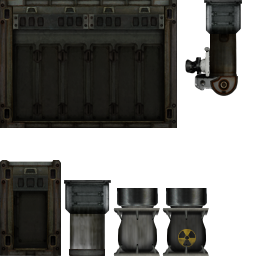
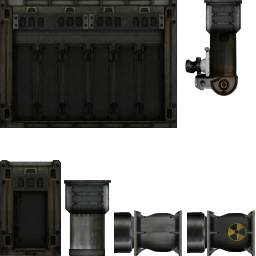
- item sprites visible in fabricator menu - deth charge rotation fix - sonar tweaking (ruin walls look slightly different from cave walls) - connector sprite positioning fix - repairtool is active when in use

Changed region(s): [[0.4375, 0.7188, 1.0, 1.0]]

diff --git a/Subsurface/Source/Items/Components/Machines/Radar.cs b/Subsurface/Source/Items/Components/Machines/Radar.cs
@@ -141,7 +141,7 @@ namespace Barotrauma.Items.Components
                     CreateBlipsForLine(
                         start + Submarine.Loaded.WorldPosition, 
                         end + Submarine.Loaded.WorldPosition, 
-                        radius, displayScale, 2.0f);
+                        radius, displayScale, 200.0f, 2.0f);
                 }
 
             }
@@ -170,7 +170,7 @@ namespace Barotrauma.Items.Components
                     CreateBlipsForLine(
                         new Vector2(item.WorldPosition.X - range, Level.Loaded.Size.Y),
                         new Vector2(item.WorldPosition.X + range, Level.Loaded.Size.Y),
-                        radius, displayScale, 1.0f);
+                        radius, displayScale, 300.0f, 1.0f);
                 }
 
                 List<VoronoiCell> cells = Level.Loaded.GetCells(item.WorldPosition, 7);
@@ -179,14 +179,14 @@ namespace Barotrauma.Items.Components
                     foreach (GraphEdge edge in cell.edges)
                     {
                         if (!edge.isSolid) continue;
-                        float cellDot = Vector2.Dot(cell.Center - item.WorldPosition, (edge.Center+cell.Translation) - cell.Center);
+                        float cellDot = Vector2.Dot(cell.Center - item.WorldPosition, (edge.Center + cell.Translation) - cell.Center);
                         if (cellDot > 0) continue;
 
                         float facingDot = Vector2.Dot(
-                            Vector2.Normalize(edge.point1 - edge.point2), 
-                            Vector2.Normalize(cell.Center-item.WorldPosition));
+                            Vector2.Normalize(edge.point1 - edge.point2),
+                            Vector2.Normalize(cell.Center - item.WorldPosition));
 
-                        CreateBlipsForLine(edge.point1 + cell.Translation, edge.point2+cell.Translation, radius, displayScale, 3.0f * (Math.Abs(facingDot) + 1.0f));
+                        CreateBlipsForLine(edge.point1 + cell.Translation, edge.point2 + cell.Translation, radius, displayScale, 350.0f, 3.0f * (Math.Abs(facingDot) + 1.0f));
                     }
                 }    
 
@@ -204,7 +204,7 @@ namespace Barotrauma.Items.Components
                                 Vector2.Normalize((wall.A+wall.B)/2.0f - ruinShape.Center));
                             if (cellDot > 0) continue;
 
-                            CreateBlipsForLine(wall.A, wall.B, radius, displayScale, -cellDot*5.0f);
+                            CreateBlipsForLine(wall.A, wall.B, radius, displayScale, 100.0f, 1000.0f);
                         }                       
                     }
                 }
@@ -295,7 +295,7 @@ namespace Barotrauma.Items.Components
             }
         }
 
-        private void CreateBlipsForLine(Vector2 point1, Vector2 point2, float radius, float displayScale, float step)
+        private void CreateBlipsForLine(Vector2 point1, Vector2 point2, float radius, float displayScale, float lineStep, float zStep)
         {
             float pingRadius = radius * pingState;
 
@@ -303,7 +303,7 @@ namespace Barotrauma.Items.Components
 
             Vector2 lineDir = (point2 - point1) / length;
 
-            for (float x = 0; x < length; x += Rand.Range(300.0f, 400.0f))
+            for (float x = 0; x < length; x += lineStep*Rand.Range(0.8f,1.2f))
             {
                 Vector2 point = point1 + lineDir * x;
                 //point += cell.Translation;
@@ -316,7 +316,7 @@ namespace Barotrauma.Items.Components
 
                 //float step = 3.0f * (Math.Abs(facingDot) + 1.0f);
                 float alpha = Rand.Range(1.5f, 2.0f);
-                for (float z = 0; z < radius - pointDist; z += step)
+                for (float z = 0; z < radius - pointDist; z += zStep)
                 {
 
                     var blip = new RadarBlip(
@@ -324,7 +324,7 @@ namespace Barotrauma.Items.Components
                         alpha);
 
                     radarBlips.Add(blip);
-                    step += 0.5f;
+                    zStep += 0.5f;
                     alpha -= (z == 0) ? 0.5f : 0.1f;
                 }
 

diff --git a/Subsurface/Source/Items/Components/Machines/Fabricator.cs b/Subsurface/Source/Items/Components/Machines/Fabricator.cs
@@ -114,12 +114,9 @@ namespace Barotrauma.Items.Components
 
             foreach (FabricableItem fi in fabricableItems)
             {
-                Color color = ((itemList.CountChildren % 2) == 0) ? Color.Transparent : Color.Black*0.3f;
-
-                new GUITextBlock(
-                    new Rectangle(0, 0, 0, 25), fi.TargetItem.Name,
-                    color, Color.White,
-                    Alignment.Left, Alignment.Left, null, itemList)
+                Color color = ((itemList.CountChildren % 2) == 0) ? Color.Transparent : Color.Black * 0.3f;
+                
+                GUIFrame frame = new GUIFrame(new Rectangle(0, 0, 0, 50), Color.Transparent, null, itemList)
                 {
                     UserData = fi,
                     Padding = new Vector4(5.0f, 5.0f, 5.0f, 5.0f),
@@ -127,6 +124,21 @@ namespace Barotrauma.Items.Components
                     SelectedColor = Color.Gold * 0.5f,
                     ToolTip = fi.TargetItem.Description
                 };
+
+                GUITextBlock textBlock = new GUITextBlock(
+                    new Rectangle(40, 0, 0, 25),
+                    fi.TargetItem.Name,
+                    Color.Transparent, Color.White,
+                    Alignment.Left, Alignment.Left,
+                    null, frame);
+                textBlock.Padding = new Vector4(5.0f, 0.0f, 5.0f, 0.0f);
+
+                if (fi.TargetItem.sprite != null)
+                {
+                    GUIImage img = new GUIImage(new Rectangle(0, 0, 40, 40), fi.TargetItem.sprite, Alignment.Left, frame);
+                    img.Scale = Math.Min(Math.Min(40.0f / img.SourceRect.Width, 40.0f / img.SourceRect.Height), 1.0f);
+                    img.Color = fi.TargetItem.SpriteColor;
+                }
 
             }
         }

diff --git a/Subsurface/Source/Map/Submarine.cs b/Subsurface/Source/Map/Submarine.cs
@@ -224,7 +224,7 @@ namespace Barotrauma
 
         public static void Draw(SpriteBatch spriteBatch, bool editing = false)
         {
-            for (int i = 0; i < MapEntity.mapEntityList.Count(); i++ )
+            for (int i = 0; i < MapEntity.mapEntityList.Count; i++ )
             {
                 MapEntity.mapEntityList[i].Draw(spriteBatch, editing);
             }
@@ -232,7 +232,7 @@ namespace Barotrauma
 
         public static void DrawFront(SpriteBatch spriteBatch, bool editing = false)
         {
-            for (int i = 0; i < MapEntity.mapEntityList.Count(); i++)
+            for (int i = 0; i < MapEntity.mapEntityList.Count; i++)
             {
                 if (MapEntity.mapEntityList[i].Sprite == null || MapEntity.mapEntityList[i].Sprite.Depth < 0.5f)
                     MapEntity.mapEntityList[i].Draw(spriteBatch, editing, false);
@@ -241,7 +241,7 @@ namespace Barotrauma
 
         public static void DrawBack(SpriteBatch spriteBatch, bool editing = false)
         {
-            for (int i = 0; i < MapEntity.mapEntityList.Count(); i++)
+            for (int i = 0; i < MapEntity.mapEntityList.Count; i++)
             {
                 if (MapEntity.mapEntityList[i].Sprite == null || MapEntity.mapEntityList[i].Sprite.Depth >= 0.5f)
                     MapEntity.mapEntityList[i].Draw(spriteBatch, editing, true);
@@ -608,7 +608,6 @@ namespace Barotrauma
 
             foreach (string path in filePaths)
             {
-                //Map savedMap = new Map(mapPath);
                 SavedSubmarines.Add(new Submarine(path));
             }
 

diff --git a/Subsurface/Source/Items/Components/Holdable/RepairTool.cs b/Subsurface/Source/Items/Components/Holdable/RepairTool.cs
@@ -20,6 +20,8 @@ namespace Barotrauma.Items.Components
 
         private string particles;
 
+        private float activeTimer;
+
         [HasDefaultValue(0.0f, false)]
         public float Range
         {
@@ -92,11 +94,11 @@ namespace Barotrauma.Items.Components
             }
         }
 
-        //public override void Update(float deltaTime, Camera cam)
-        //{
-        //    base.Update(deltaTime, cam);
-
-        //}
+        public override void Update(float deltaTime, Camera cam)
+        {
+            activeTimer -= deltaTime;
+            if (activeTimer <= 0.0f) IsActive = false;
+        }
 
         public override bool Use(float deltaTime, Character character = null)
         {
@@ -126,6 +128,9 @@ namespace Barotrauma.Items.Components
                 if (Rand.Range(0.0f, 0.5f) > degreeOfSuccess) continue;
                 ignoredBodies.Add(limb.body.FarseerBody);
             }
+
+            IsActive = true;
+            activeTimer = 0.1f;
 
 
             for (int n = 0; n < 2; n++)

diff --git a/Subsurface/Source/Items/Components/Turret.cs b/Subsurface/Source/Items/Components/Turret.cs
@@ -131,6 +131,8 @@ namespace Barotrauma.Items.Components
 
             ApplyStatusEffects(ActionType.OnActive, deltaTime, null);
 
+            if (minRotation == maxRotation) return;
+
             float targetMidDiff = MathHelper.WrapAngle(targetRotation - (minRotation + maxRotation) / 2.0f);
 
             float maxDist = (maxRotation - minRotation) / 2.0f;
@@ -184,6 +186,7 @@ namespace Barotrauma.Items.Components
             Item projectile = projectiles[0].Item;
 
             projectile.Drop();
+            projectile.body.Dir = 1.0f;
 
             projectile.body.ResetDynamics();
             projectile.body.Enabled = true;

diff --git a/Subsurface/Source/Items/Components/Signal/Connection.cs b/Subsurface/Source/Items/Components/Signal/Connection.cs
@@ -409,6 +409,8 @@ namespace Barotrauma.Items.Components
                 SpriteEffects.None,
                 0.0f);
 
+            connector.Draw(spriteBatch, end, Color.White, new Vector2(10.0f, 10.0f), MathUtils.VectorToAngle(end - start)+MathHelper.PiOver2);
+
             if (draggingConnected == null && !wireEquipped)
             {
                 if (mouseOn)
